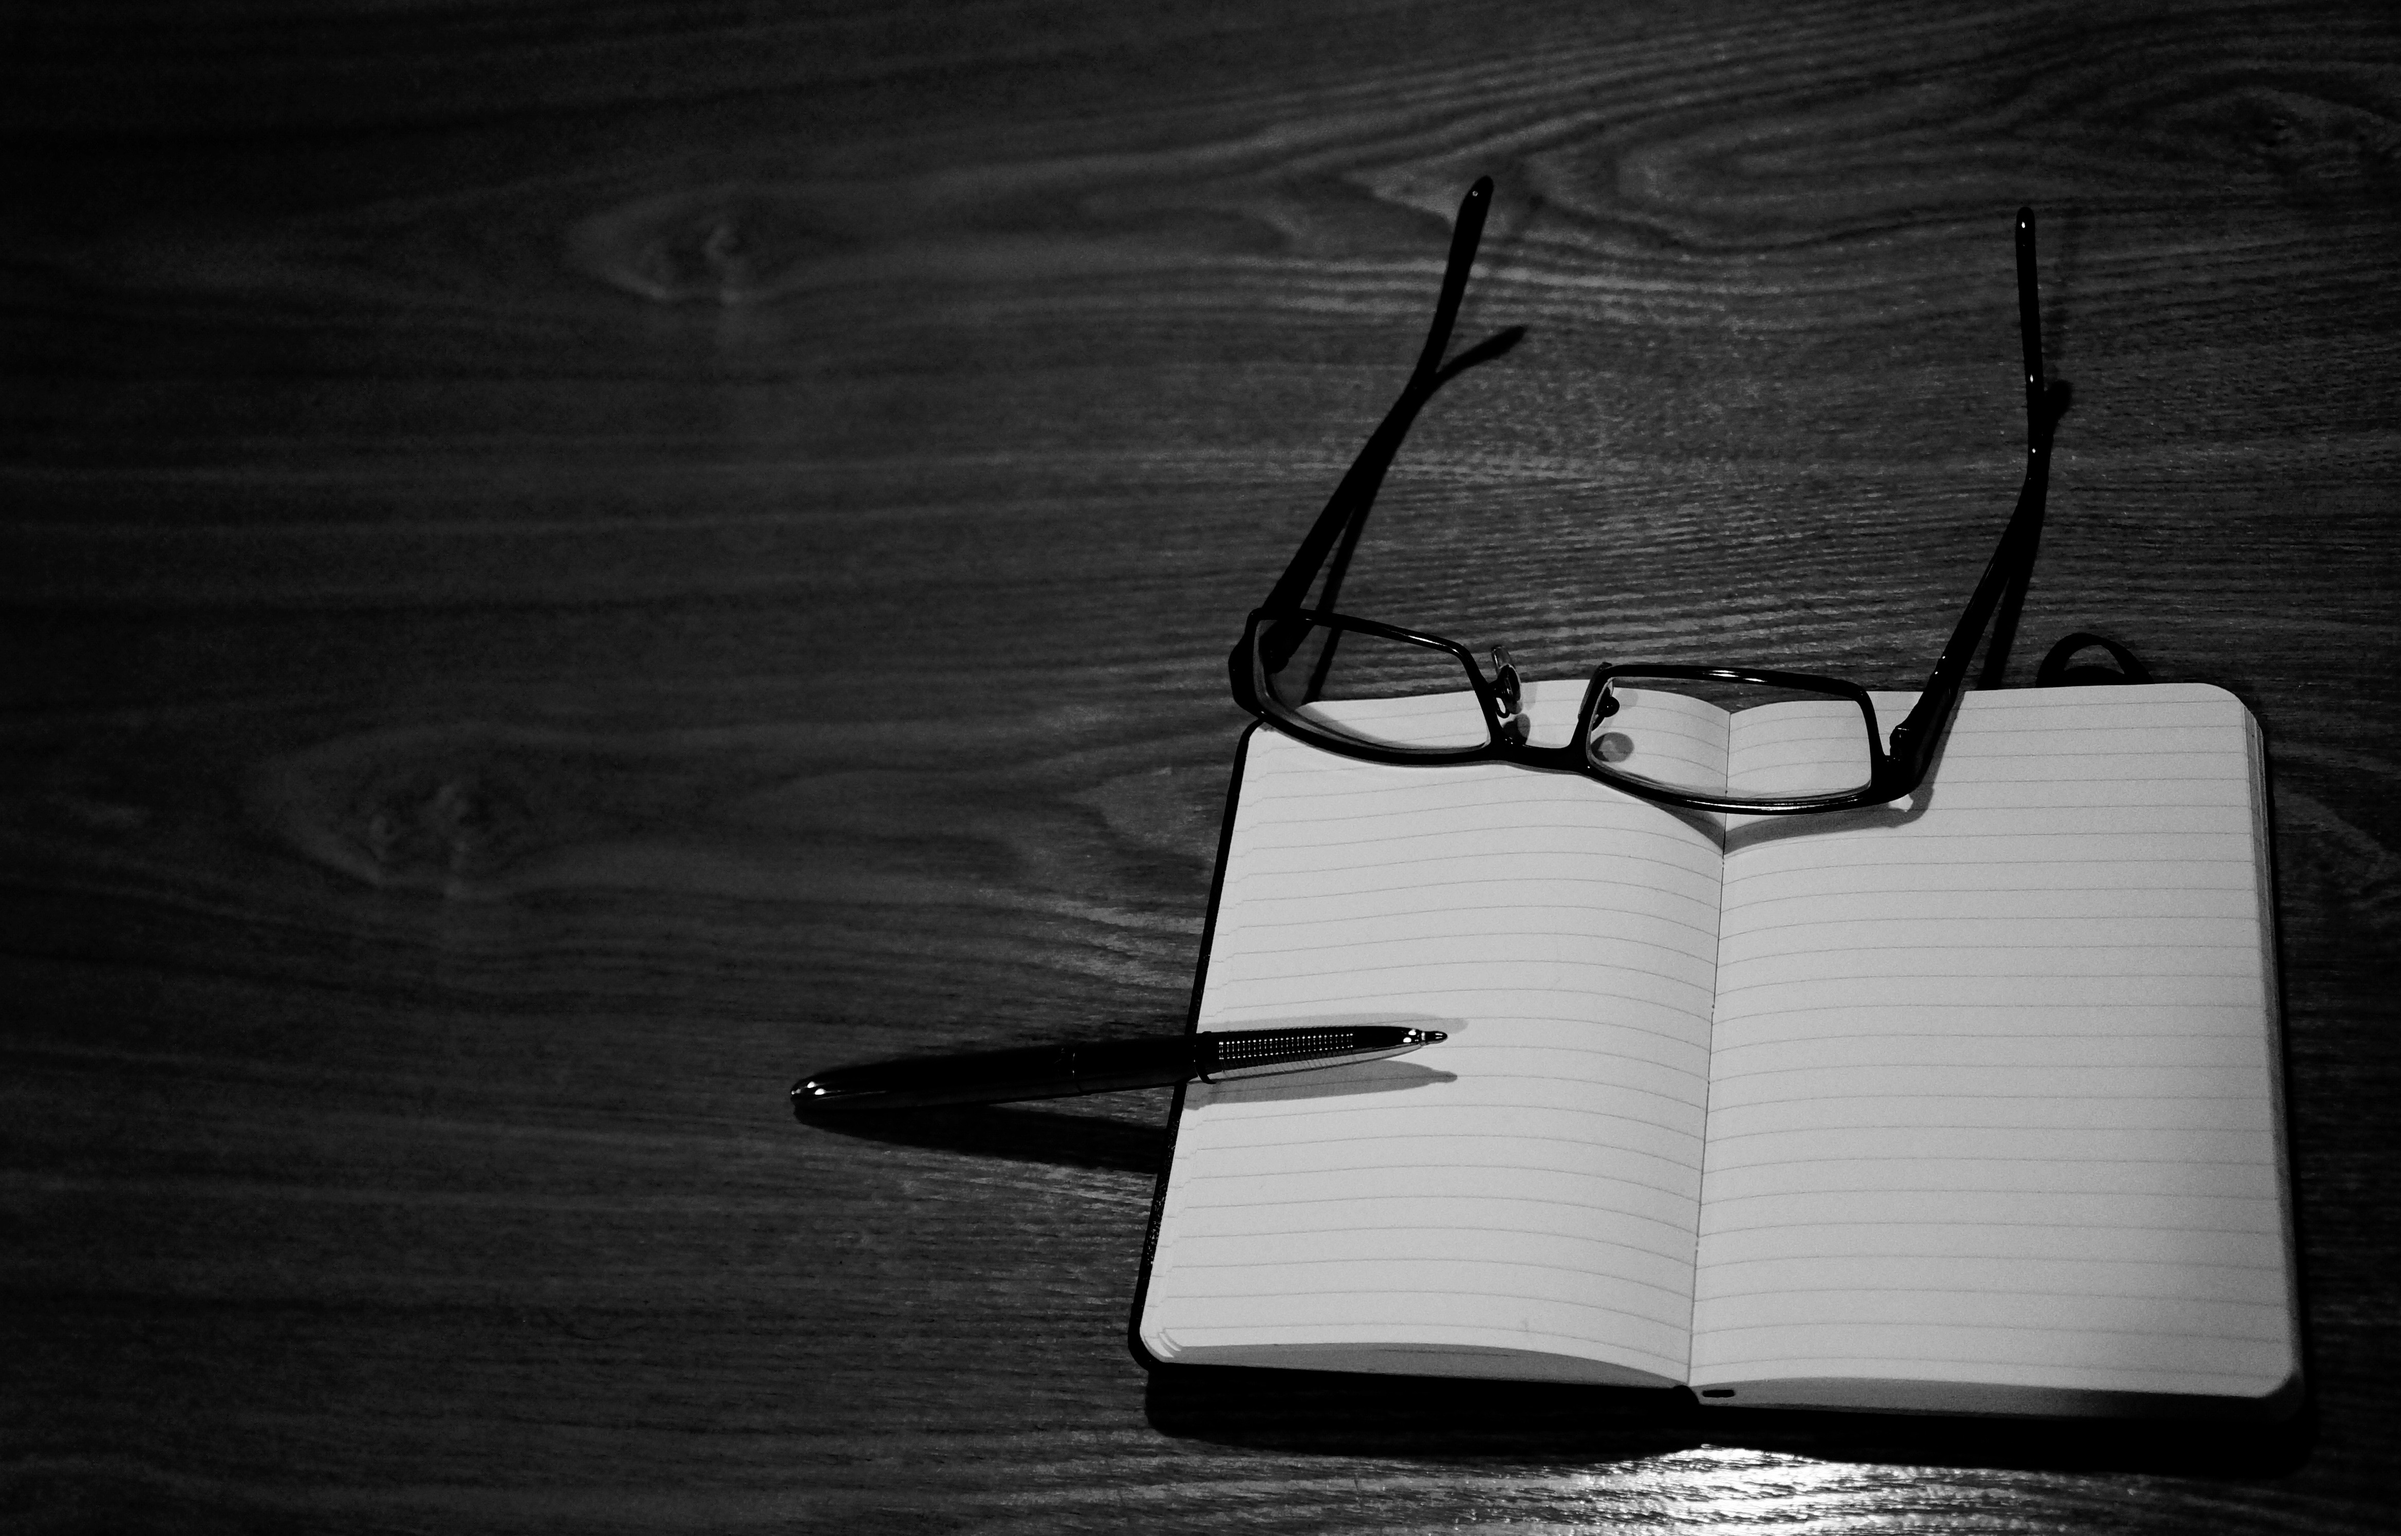
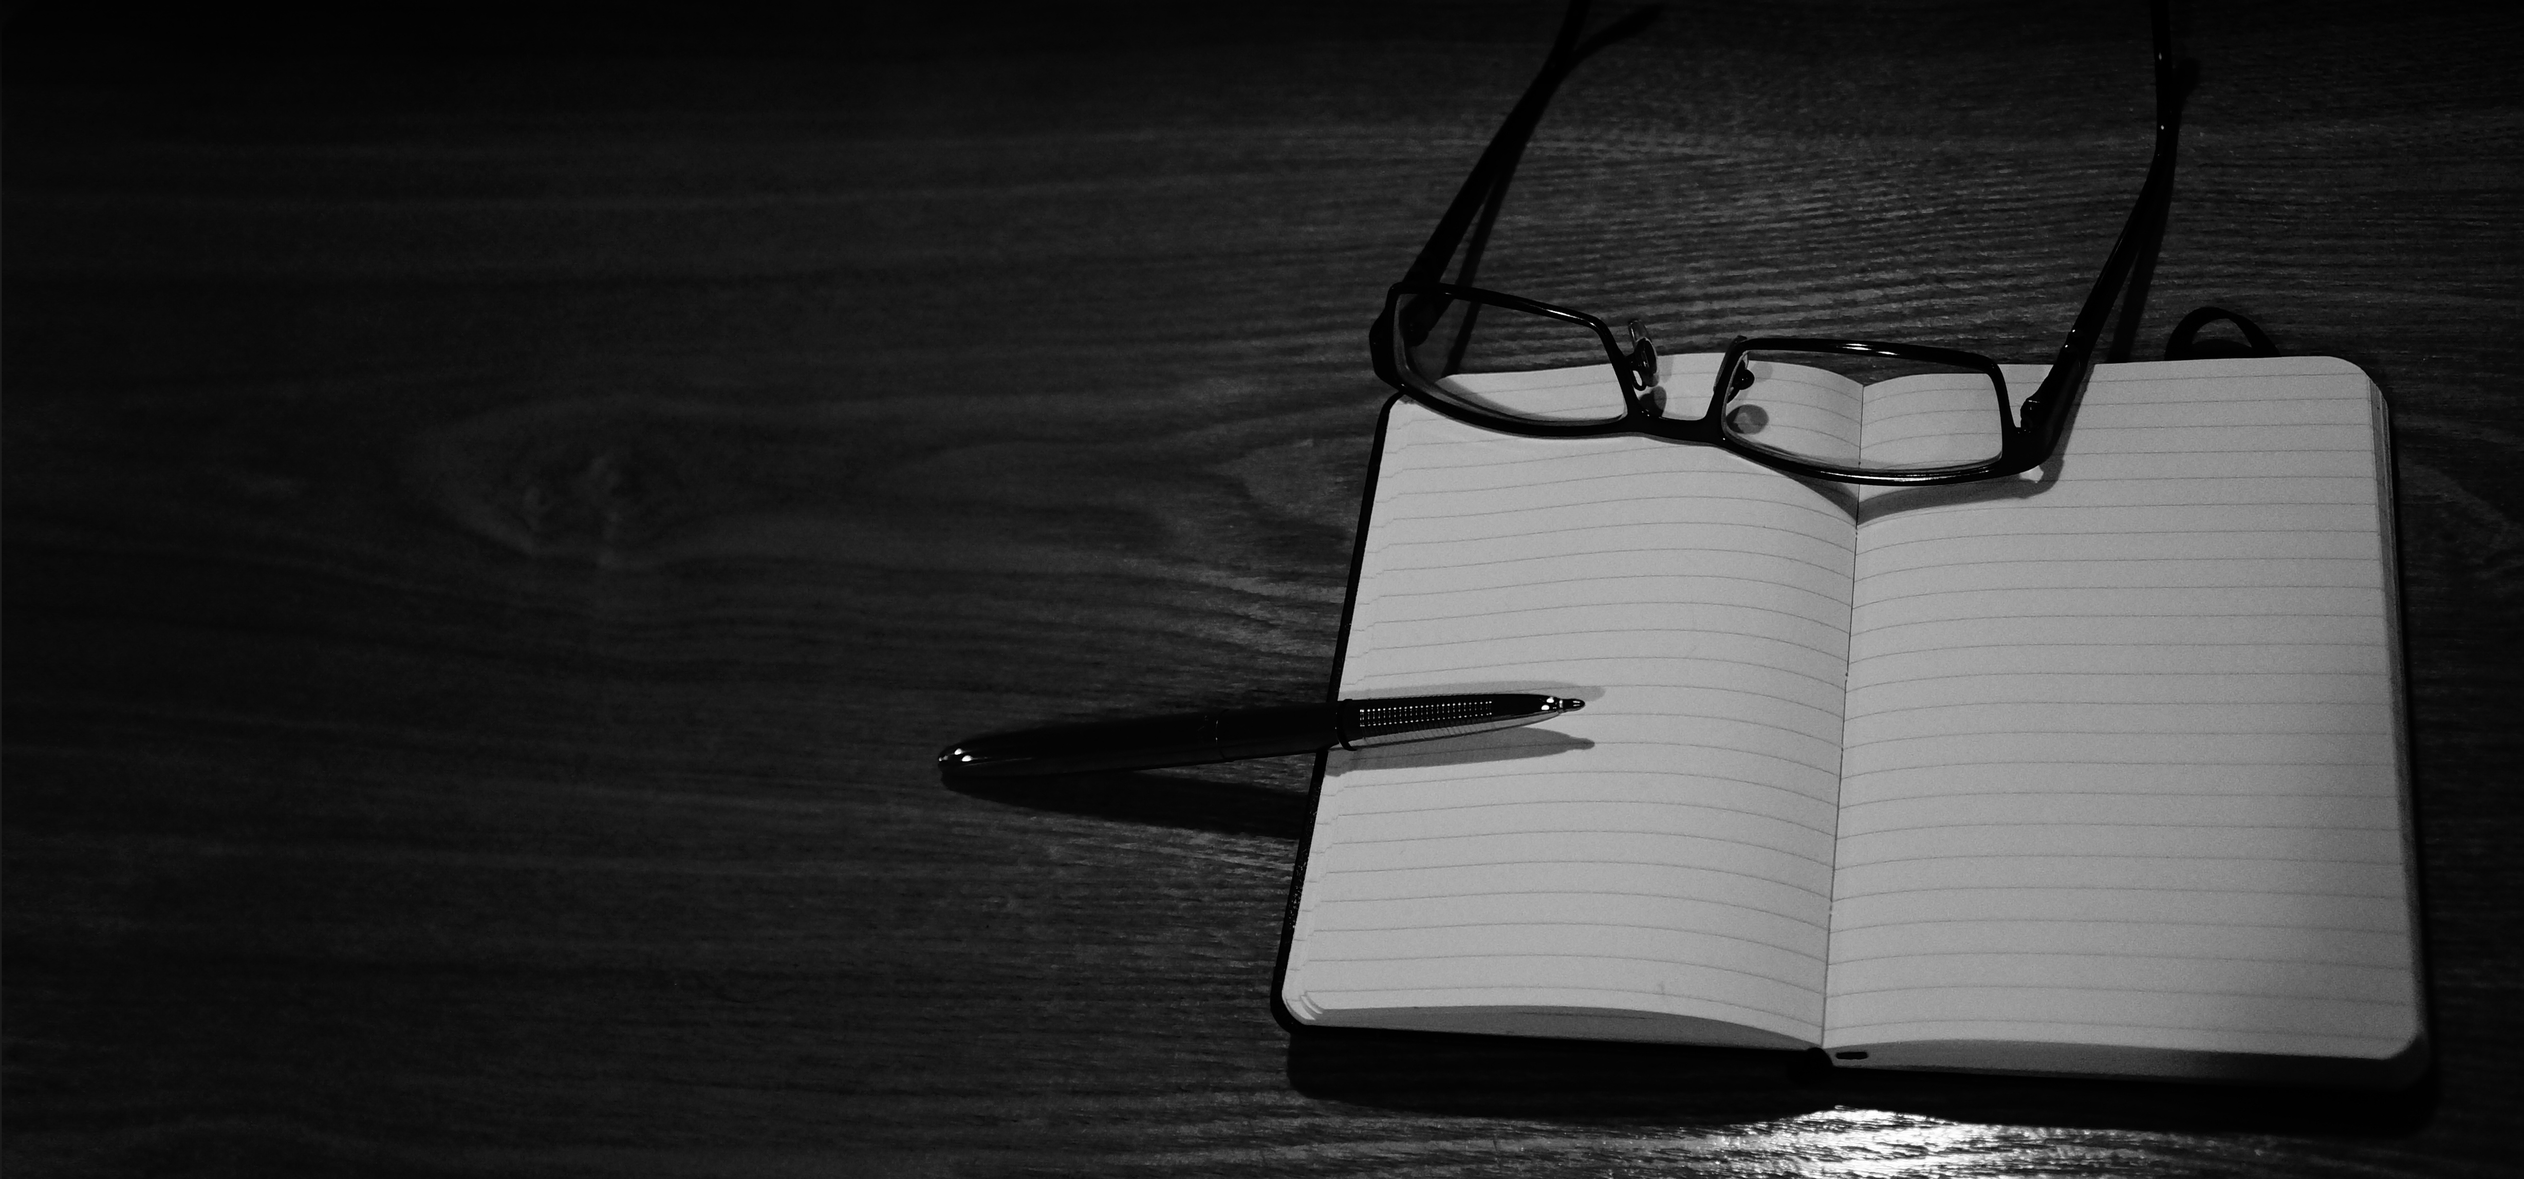
Change image height, text positioning, other small design elements

Changed region(s): [[0.2499, 0.0, 1.0, 1.0]]

diff --git a/styles/default.css b/styles/default.css
@@ -104,14 +104,14 @@ header #tagline {
 	font-size: 2em;
 	position: absolute;
 	width: 60%;
-	text-align: center;
-	margin: 48% 20% 0 20%;
+	margin: 20% 20% 0 15%;
+	letter-spacing: 2px;
 	z-index: 3;
 }
 
 div#spaceholder {
 	width: 100%;
-	padding-bottom: 66%;
+	padding-bottom: 45%;
 }
 
 article {

diff --git a/blog/the-recipe-for-success.html b/blog/the-recipe-for-success.html
@@ -1,4 +1,4 @@
-<!DOCTYPE html>
+
 
 <html lang="en">
 
@@ -28,7 +28,7 @@
     <div id="tagline">THE BLOG</div>
   </header>
   
-  <div id="spaceholder" style="padding-bottom:62%">Patience, please.</div>
+  <div id="spaceholder">Patience, please.</div>
 
   <main>
   <article>

diff --git a/index.html b/index.html
@@ -28,7 +28,7 @@
 	  <div id="tagline">Looking for a Rails developer?</div>
 	</header>
 	
-	<div id="spaceholder">Patience, please.</div>
+	<div id="spaceholder" style="padding-bottom:62%">Patience, please.</div>
 
 	<main>
 	<article>

diff --git a/blog/what-do-you-get-from-git.html b/blog/what-do-you-get-from-git.html
@@ -28,7 +28,7 @@
     <div id="tagline">THE BLOG</div>
   </header>
   
-  <div id="spaceholder" style="padding-bottom:62%">Patience, please.</div>
+  <div id="spaceholder">Patience, please.</div>
 
   <main>
     <article>

diff --git a/blog/arrays-and-hashes.html b/blog/arrays-and-hashes.html
@@ -28,7 +28,7 @@
 	  <div id="tagline">THE BLOG</div>
 	</header>
 	
-	<div id="spaceholder" style="padding-bottom:62%">Patience, please.</div>
+	<div id="spaceholder">Patience, please.</div>
 
 	<main>
 		<article>

diff --git a/blog/index.html b/blog/index.html
@@ -28,7 +28,7 @@
 	  <div id="tagline">WRITINGS</div>
 	</header>
 	
-	<div id="spaceholder" style="padding-bottom:62%">Patience, please.</div>
+	<div id="spaceholder">Patience, please.</div>
 
 	<main>
 		<article>

diff --git a/blog/thinking-about-learning.html b/blog/thinking-about-learning.html
@@ -28,7 +28,7 @@
 	  <div id="tagline">THE BLOG</div>
 	</header>
 	
-	<div id="spaceholder" style="padding-bottom:62%">Patience, please.</div>
+	<div id="spaceholder">Patience, please.</div>
 
 	<main>
 		<article>

diff --git a/blog/css-box-model.html b/blog/css-box-model.html
@@ -27,7 +27,7 @@
 	  <div id="tagline">THE BLOG</div>
 	</header>
 	
-	<div id="spaceholder" style="padding-bottom:62%">Patience, please.</div>
+	<div id="spaceholder">Patience, please.</div>
 
 <main>
 	<article>
